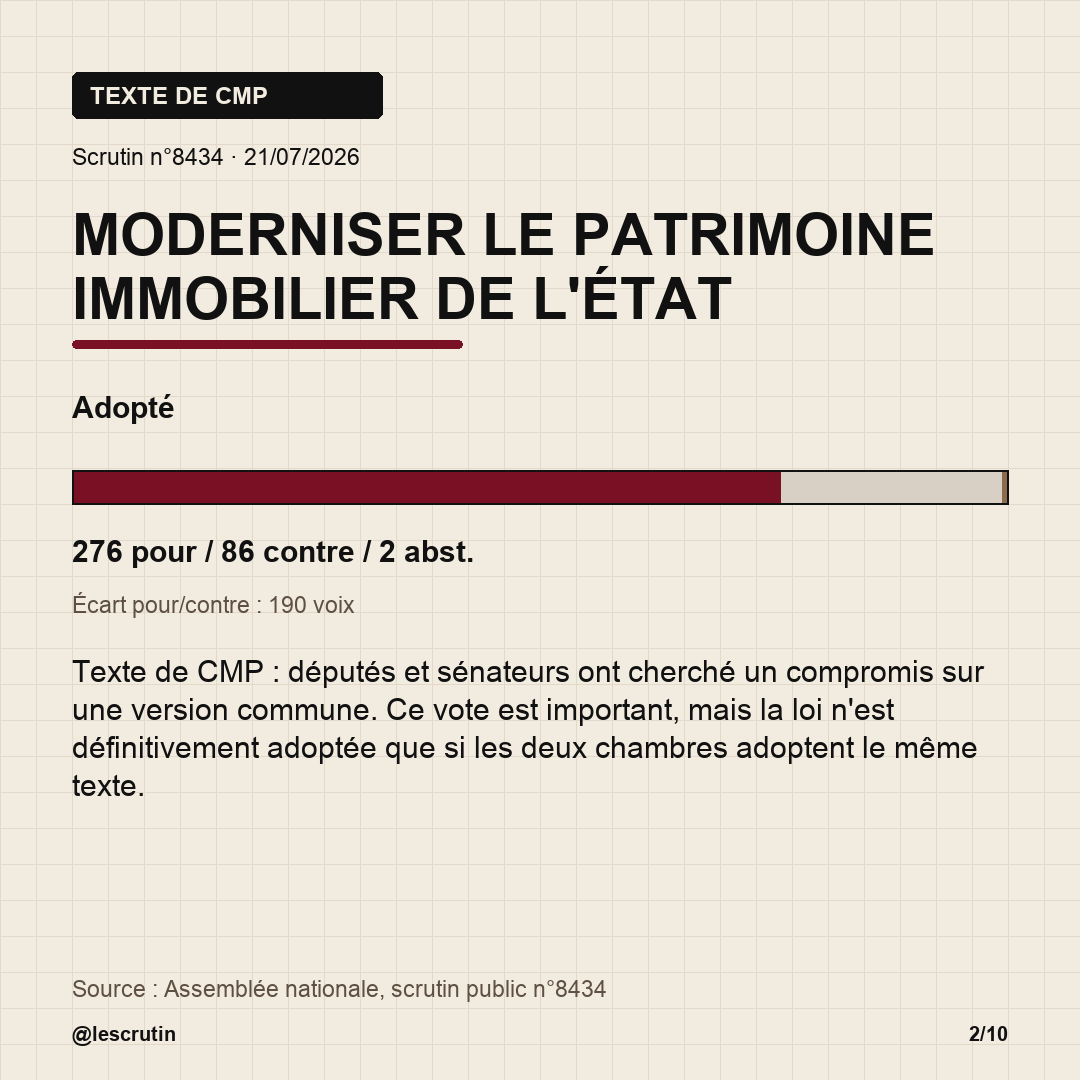
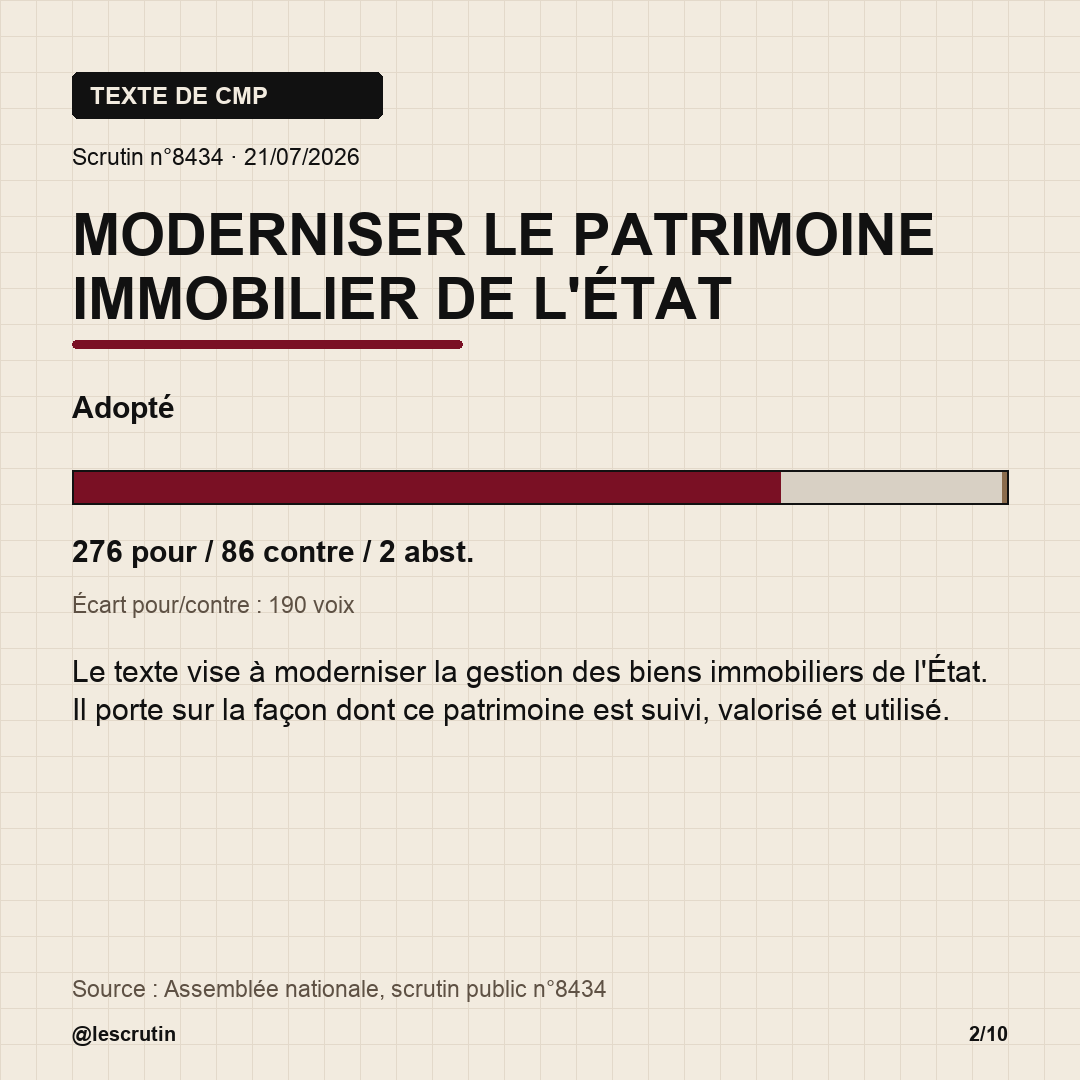
Explain weekly laws on vote slides

Changed region(s): [[0.0611, 0.6111, 0.9167, 0.7333]]

diff --git a/src/assemblee_votes/descriptions.py b/src/assemblee_votes/descriptions.py
@@ -1,0 +1,68 @@
+from __future__ import annotations
+
+import re
+from typing import Any
+
+from .stages import normalized_text
+
+
+DESCRIPTION_OVERRIDES = (
+    (
+        "patrimoine immobilier de l'etat",
+        "Le texte vise à moderniser la gestion des biens immobiliers de l'État. Il porte sur la façon dont ce patrimoine est suivi, valorisé et utilisé.",
+    ),
+    (
+        "ordre public",
+        "Le texte prévoit des réponses plus rapides face à certains troubles à l'ordre public. Il touche aux questions de sécurité, de tranquillité publique et d'intervention des autorités.",
+    ),
+    (
+        "reseaux sociaux",
+        "Le texte vise à mieux protéger les mineurs face aux risques liés aux réseaux sociaux. Il concerne l'exposition des enfants, l'encadrement des usages et la responsabilité des plateformes.",
+    ),
+    (
+        "souverainete agricole",
+        "Le texte porte sur la protection de l'agriculture française et de sa capacité à produire. Il aborde la souveraineté alimentaire, les filières agricoles et les réponses d'urgence au secteur.",
+    ),
+    (
+        "souverainete agricoles",
+        "Le texte porte sur la protection de l'agriculture française et de sa capacité à produire. Il aborde la souveraineté alimentaire, les filières agricoles et les réponses d'urgence au secteur.",
+    ),
+    (
+        "montagne vivante",
+        "Le texte adapte plusieurs règles aux réalités des territoires de montagne. Il concerne leur développement, leurs contraintes particulières et leur capacité à rester habités et actifs.",
+    ),
+    (
+        "cardio-neuro-vasculaire",
+        "Le texte vise à renforcer la prévention des maladies cardio-neuro-vasculaires. Il cherche à structurer une stratégie nationale face à un risque sanitaire majeur.",
+    ),
+    (
+        "sport professionnel",
+        "Le texte traite de l'organisation, de la gestion et du financement du sport professionnel. Il concerne le fonctionnement économique et institutionnel des clubs et compétitions.",
+    ),
+    (
+        "fin de vie",
+        "Le texte porte sur la création d'un droit à l'aide à mourir. Il encadre les conditions dans lesquelles une personne pourrait demander cette aide.",
+    ),
+    (
+        "conseil de paris",
+        "Le texte réforme le mode d'élection à Paris, Lyon et Marseille. Il concerne l'organisation démocratique spécifique de ces grandes villes.",
+    ),
+)
+
+
+def _strip_phase(value: str) -> str:
+    title = value.strip().rstrip(".")
+    title = re.sub(r"\s*\([^)]*\)", "", title)
+    title = re.sub(r"^l['’]ensemble\s+", "", title, flags=re.IGNORECASE)
+    return title.strip()
+
+
+def law_description(scrutin: dict[str, Any]) -> str:
+    haystack = normalized_text(
+        f"{scrutin.get('dossier', '')} {scrutin.get('titre', '')} {scrutin.get('objet', '')}"
+    )
+    for needle, description in DESCRIPTION_OVERRIDES:
+        if needle in haystack:
+            return description
+    title = _strip_phase(scrutin.get("dossier") or scrutin.get("objet") or scrutin.get("titre") or "ce texte")
+    return f"Le vote porte sur {title}. Le détail complet du texte est disponible dans le dossier législatif de l'Assemblée nationale."

diff --git a/src/assemblee_votes/weekly.py b/src/assemblee_votes/weekly.py
@@ -12,7 +12,8 @@ from typing import Any
 from PIL import Image, ImageDraw, ImageEnhance, ImageFilter, ImageFont
 
 from .fetch import _is_significant, _scrutin_number_from_name, normalize_scrutin
-from .stages import STAGE_ORDER, stage_label, stage_note
+from .descriptions import law_description
+from .stages import STAGE_ORDER, stage_label
 from .titles import editorial_title
 from .verify import verify_scrutin
 
@@ -314,8 +315,8 @@ def draw_vote_slide(
     draw.text((MARGIN, y), f"Écart pour/contre : {margin} voix", fill="#5E5144", font=small_font)
     y += 62
 
-    note = stage_note(scrutin.get("stage_id"))
-    _draw_wrapped(draw, (MARGIN, y), note, body_font, TEXT, SIZE - 2 * MARGIN, 38, 4)
+    description = law_description(scrutin)
+    _draw_wrapped(draw, (MARGIN, y), description, body_font, TEXT, SIZE - 2 * MARGIN, 38, 4)
 
     source = f"Source : Assemblée nationale, scrutin public n°{scrutin['numero']}"
     draw.text((MARGIN, SIZE - 104), source, fill="#5E5144", font=small_font)
@@ -459,6 +460,7 @@ def create_weekly_carousel(
                 "numero": scrutin["numero"],
                 "date": scrutin["date"],
                 "title": editorial_title(scrutin),
+                "description": law_description(scrutin),
                 "stage_id": scrutin.get("stage_id"),
                 "stage_label": stage_label(scrutin.get("stage_id")),
                 "source_url": scrutin["source_url"],
